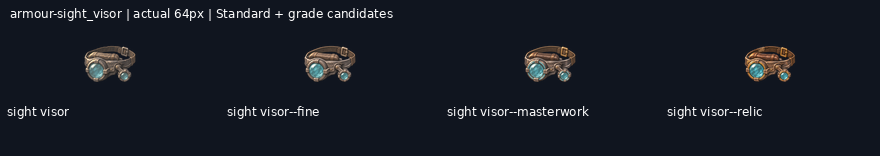
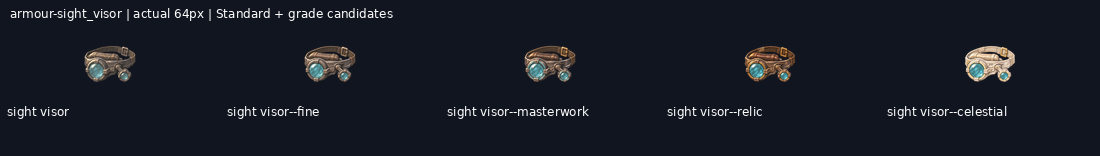
art: draw armour-sight_visor--celestial grade candidate

diff --git a/art/_archive/gear/2026-11-19-kept-blade-grades/HANDOFF.md b/art/_archive/gear/2026-11-19-kept-blade-grades/HANDOFF.md
@@ -1,6 +1,6 @@
 # Gear grade candidates
 
-**144/208 grade candidates delivered** on `art/2026-11-19-kept-blade-grades`. Shared mailbox: https://github.com/leonpentastorm/Project-Heaven-Cry/issues/3 . See claim.json for this lane’s current Standards. Released overlapping blades reuse12 peer candidates, with3 local alternatives archived.
+**145/208 grade candidates delivered** on `art/2026-11-19-kept-blade-grades`. Shared mailbox: https://github.com/leonpentastorm/Project-Heaven-Cry/issues/3 . See claim.json for this lane’s current Standards. Released overlapping blades reuse12 peer candidates, with3 local alternatives archived.
 
 Leon requested continuous candidate production; proof approval is not fabricated. All candidates remain review-candidate, production_approved:false, implementation_ready:false, with outline.review_required:true. Exact outline is measured, never asserted unless the masks match. Per-image registration is uniform scaling/translation only, without warp, silhouette masks, filled pixels or code-drawn substitutes. The generated native remains untouched.
 
@@ -10,12 +10,12 @@ Tomorrow: fetch this branch and develop safely, read the latest issue 3 comments
 
 Peer audit: [coordination/peer-audit-2026-11-19.md](coordination/peer-audit-2026-11-19.md). Peer58 masters/232 exports and12 canonical imports are integrated with versioned alpha<8 cleanup; originals are retained. See coordination/peer-import-v2/manifest.json and post-catalog VALIDATION.json (strict margins pass, solid alpha unchanged). Peer quota resets20 November2026 at09:45:39 Bangkok time; this does not establish this session’s quota.
 
-Remaining: weapon-ork_machete--masterwork, weapon-ork_machete--relic, weapon-ork_machete--celestial, weapon-war_axe--fine, weapon-war_axe--masterwork, weapon-war_axe--relic, weapon-war_axe--celestial, weapon-parlour_pistol--fine, weapon-parlour_pistol--masterwork, weapon-parlour_pistol--relic, weapon-parlour_pistol--celestial, weapon-lever_carbine--fine, weapon-lever_carbine--masterwork, weapon-lever_carbine--relic, weapon-lever_carbine--celestial, weapon-sawn_off--fine, weapon-sawn_off--masterwork, weapon-sawn_off--relic, weapon-sawn_off--celestial, weapon-coach_gun--fine, weapon-coach_gun--masterwork, weapon-coach_gun--relic, weapon-coach_gun--celestial, weapon-legion_bullpup--fine, weapon-legion_bullpup--masterwork, weapon-legion_bullpup--relic, weapon-legion_bullpup--celestial, weapon-whisper_smg--fine, weapon-whisper_smg--masterwork, weapon-whisper_smg--relic, weapon-whisper_smg--celestial, armour-sight_visor--celestial, armour-breather--fine, armour-breather--masterwork, armour-breather--relic, armour-breather--celestial, armour-sealed_visor--fine, armour-sealed_visor--masterwork, armour-sealed_visor--relic, armour-sealed_visor--celestial, armour-breacher_plate--fine, armour-breacher_plate--masterwork, armour-breacher_plate--relic, armour-breacher_plate--celestial, armour-mesh_undersuit--fine, armour-mesh_undersuit--masterwork, armour-mesh_undersuit--relic, armour-mesh_undersuit--celestial, armour-rig_belt--fine, armour-rig_belt--masterwork, armour-rig_belt--relic, armour-rig_belt--celestial, armour-field_trousers--fine, armour-field_trousers--masterwork, armour-field_trousers--relic, armour-field_trousers--celestial, armour-tactical_gloves--fine, armour-tactical_gloves--masterwork, armour-tactical_gloves--relic, armour-tactical_gloves--celestial, armour-jump_boots--fine, armour-jump_boots--masterwork, armour-jump_boots--relic, armour-jump_boots--celestial.
+Remaining: weapon-ork_machete--masterwork, weapon-ork_machete--relic, weapon-ork_machete--celestial, weapon-war_axe--fine, weapon-war_axe--masterwork, weapon-war_axe--relic, weapon-war_axe--celestial, weapon-parlour_pistol--fine, weapon-parlour_pistol--masterwork, weapon-parlour_pistol--relic, weapon-parlour_pistol--celestial, weapon-lever_carbine--fine, weapon-lever_carbine--masterwork, weapon-lever_carbine--relic, weapon-lever_carbine--celestial, weapon-sawn_off--fine, weapon-sawn_off--masterwork, weapon-sawn_off--relic, weapon-sawn_off--celestial, weapon-coach_gun--fine, weapon-coach_gun--masterwork, weapon-coach_gun--relic, weapon-coach_gun--celestial, weapon-legion_bullpup--fine, weapon-legion_bullpup--masterwork, weapon-legion_bullpup--relic, weapon-legion_bullpup--celestial, weapon-whisper_smg--fine, weapon-whisper_smg--masterwork, weapon-whisper_smg--relic, weapon-whisper_smg--celestial, armour-breather--fine, armour-breather--masterwork, armour-breather--relic, armour-breather--celestial, armour-sealed_visor--fine, armour-sealed_visor--masterwork, armour-sealed_visor--relic, armour-sealed_visor--celestial, armour-breacher_plate--fine, armour-breacher_plate--masterwork, armour-breacher_plate--relic, armour-breacher_plate--celestial, armour-mesh_undersuit--fine, armour-mesh_undersuit--masterwork, armour-mesh_undersuit--relic, armour-mesh_undersuit--celestial, armour-rig_belt--fine, armour-rig_belt--masterwork, armour-rig_belt--relic, armour-rig_belt--celestial, armour-field_trousers--fine, armour-field_trousers--masterwork, armour-field_trousers--relic, armour-field_trousers--celestial, armour-tactical_gloves--fine, armour-tactical_gloves--masterwork, armour-tactical_gloves--relic, armour-tactical_gloves--celestial, armour-jump_boots--fine, armour-jump_boots--masterwork, armour-jump_boots--relic, armour-jump_boots--celestial.
 
 Service-rejected requests (do not repeatedly resubmit): weapon-coach_gun--fine, weapon-legion_bullpup--fine, weapon-lever_carbine--fine, weapon-ork_machete--masterwork, weapon-parlour_pistol--fine, weapon-sawn_off--fine, weapon-war_axe--fine, weapon-whisper_smg--fine.
 
 Waiting on rejected prerequisites: weapon-coach_gun--celestial, weapon-coach_gun--masterwork, weapon-coach_gun--relic, weapon-legion_bullpup--celestial, weapon-legion_bullpup--masterwork, weapon-legion_bullpup--relic, weapon-lever_carbine--celestial, weapon-lever_carbine--masterwork, weapon-lever_carbine--relic, weapon-ork_machete--celestial, weapon-ork_machete--relic, weapon-parlour_pistol--celestial, weapon-parlour_pistol--masterwork, weapon-parlour_pistol--relic, weapon-sawn_off--celestial, weapon-sawn_off--masterwork, weapon-sawn_off--relic, weapon-war_axe--celestial, weapon-war_axe--masterwork, weapon-war_axe--relic, weapon-whisper_smg--celestial, weapon-whisper_smg--masterwork, weapon-whisper_smg--relic.
 
-Ready independent next steps, in queue order: armour-sight_visor--celestial, armour-breather--fine, armour-sealed_visor--fine, armour-breacher_plate--fine, armour-mesh_undersuit--fine, armour-rig_belt--fine, armour-field_trousers--fine, armour-tactical_gloves--fine, armour-jump_boots--fine. Other pending grades follow their preceding grade.
+Ready independent next steps, in queue order: armour-breather--fine, armour-sealed_visor--fine, armour-breacher_plate--fine, armour-mesh_undersuit--fine, armour-rig_belt--fine, armour-field_trousers--fine, armour-tactical_gloves--fine, armour-jump_boots--fine. Other pending grades follow their preceding grade.
 
 Runtime handoff: implementation_ready:false records review status but does not gate the web asset builder. The builder emits grade asset keys; the current UI gear resolver still needs grade-aware selection. Do not claim that runtime grade selection is implemented by these art deliveries.
